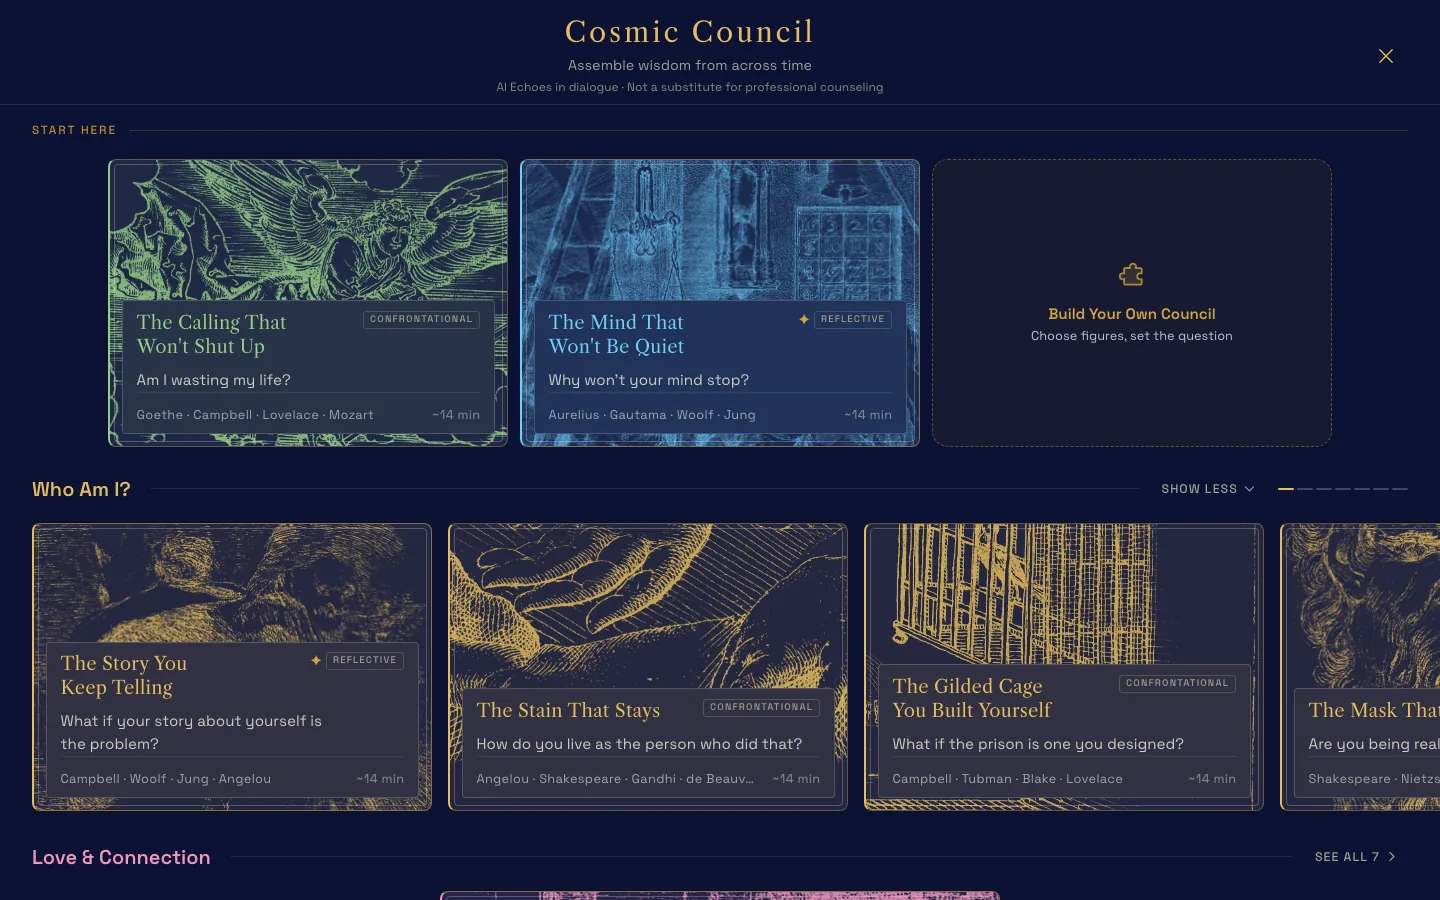
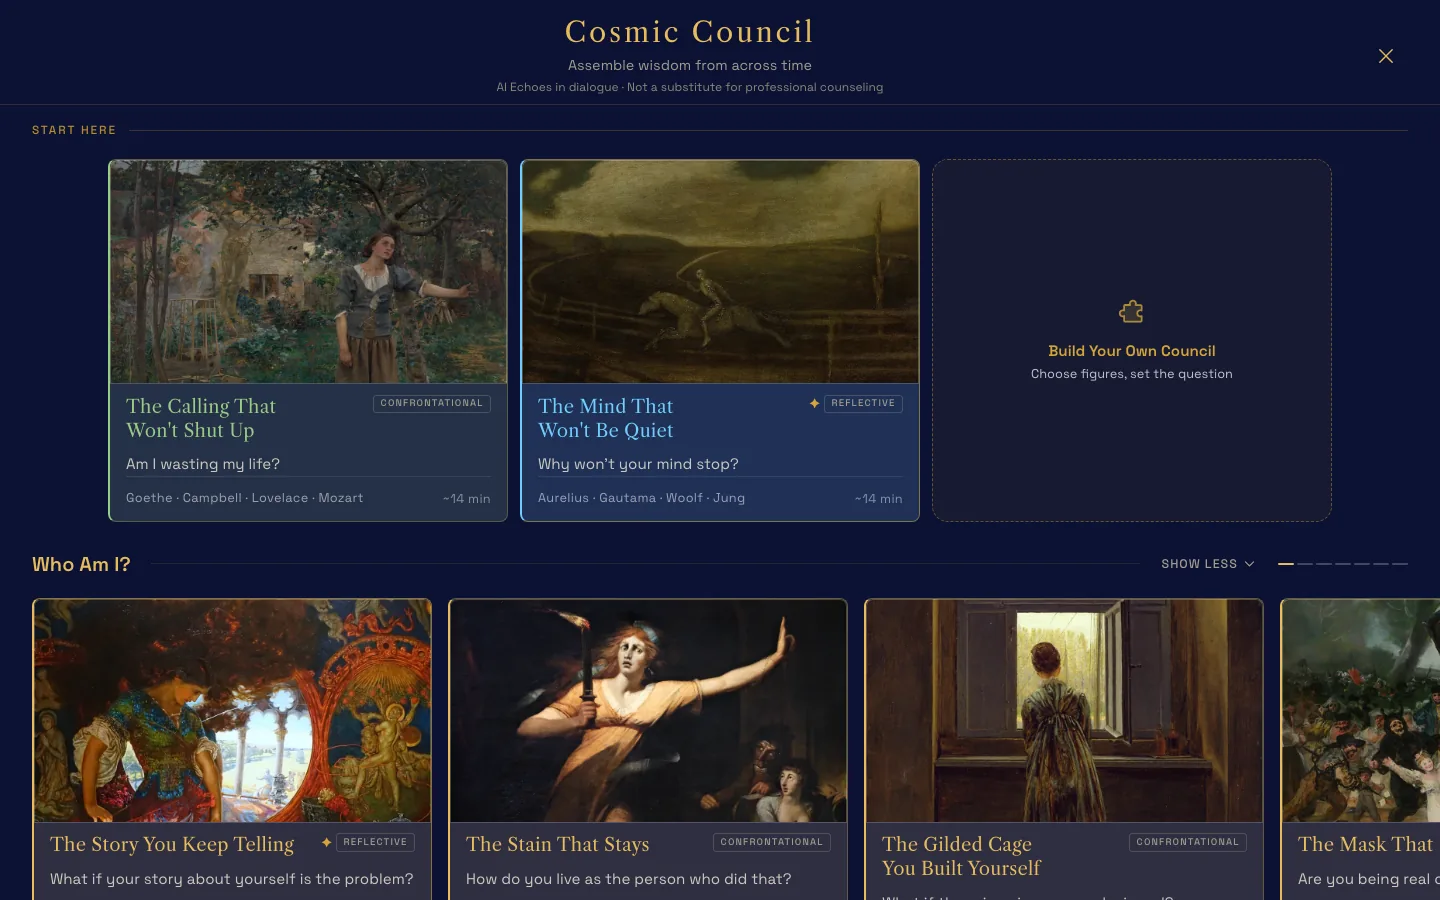
Reshoot the council wall with its paintings

diff --git a/docs/TOUR.md b/docs/TOUR.md
@@ -60,8 +60,8 @@ Everything orbits one figure at a time. Four chapters build on each other (Story
 </p>
 
 <p align="center">
-  <img src="../.github/assets/tour/09-council-wall.webp" alt="The council wall: engraving plates for recorded councils, each naming its question and its four voices" width="100%" /><br/>
-  <em>Or take one of the recorded councils: 55 questions, four voices each, at two depth levels, on a wall of engraving plates.</em>
+  <img src="../.github/assets/tour/09-council-wall.webp" alt="The council wall: a public-domain painting on every recorded council, each card naming its question and its four voices" width="100%" /><br/>
+  <em>Or take one of the recorded councils: 55 questions, four voices each, at two depth levels, each under a public-domain painting with its museum credit a tap away.</em>
 </p>
 
 ## See the receipts
